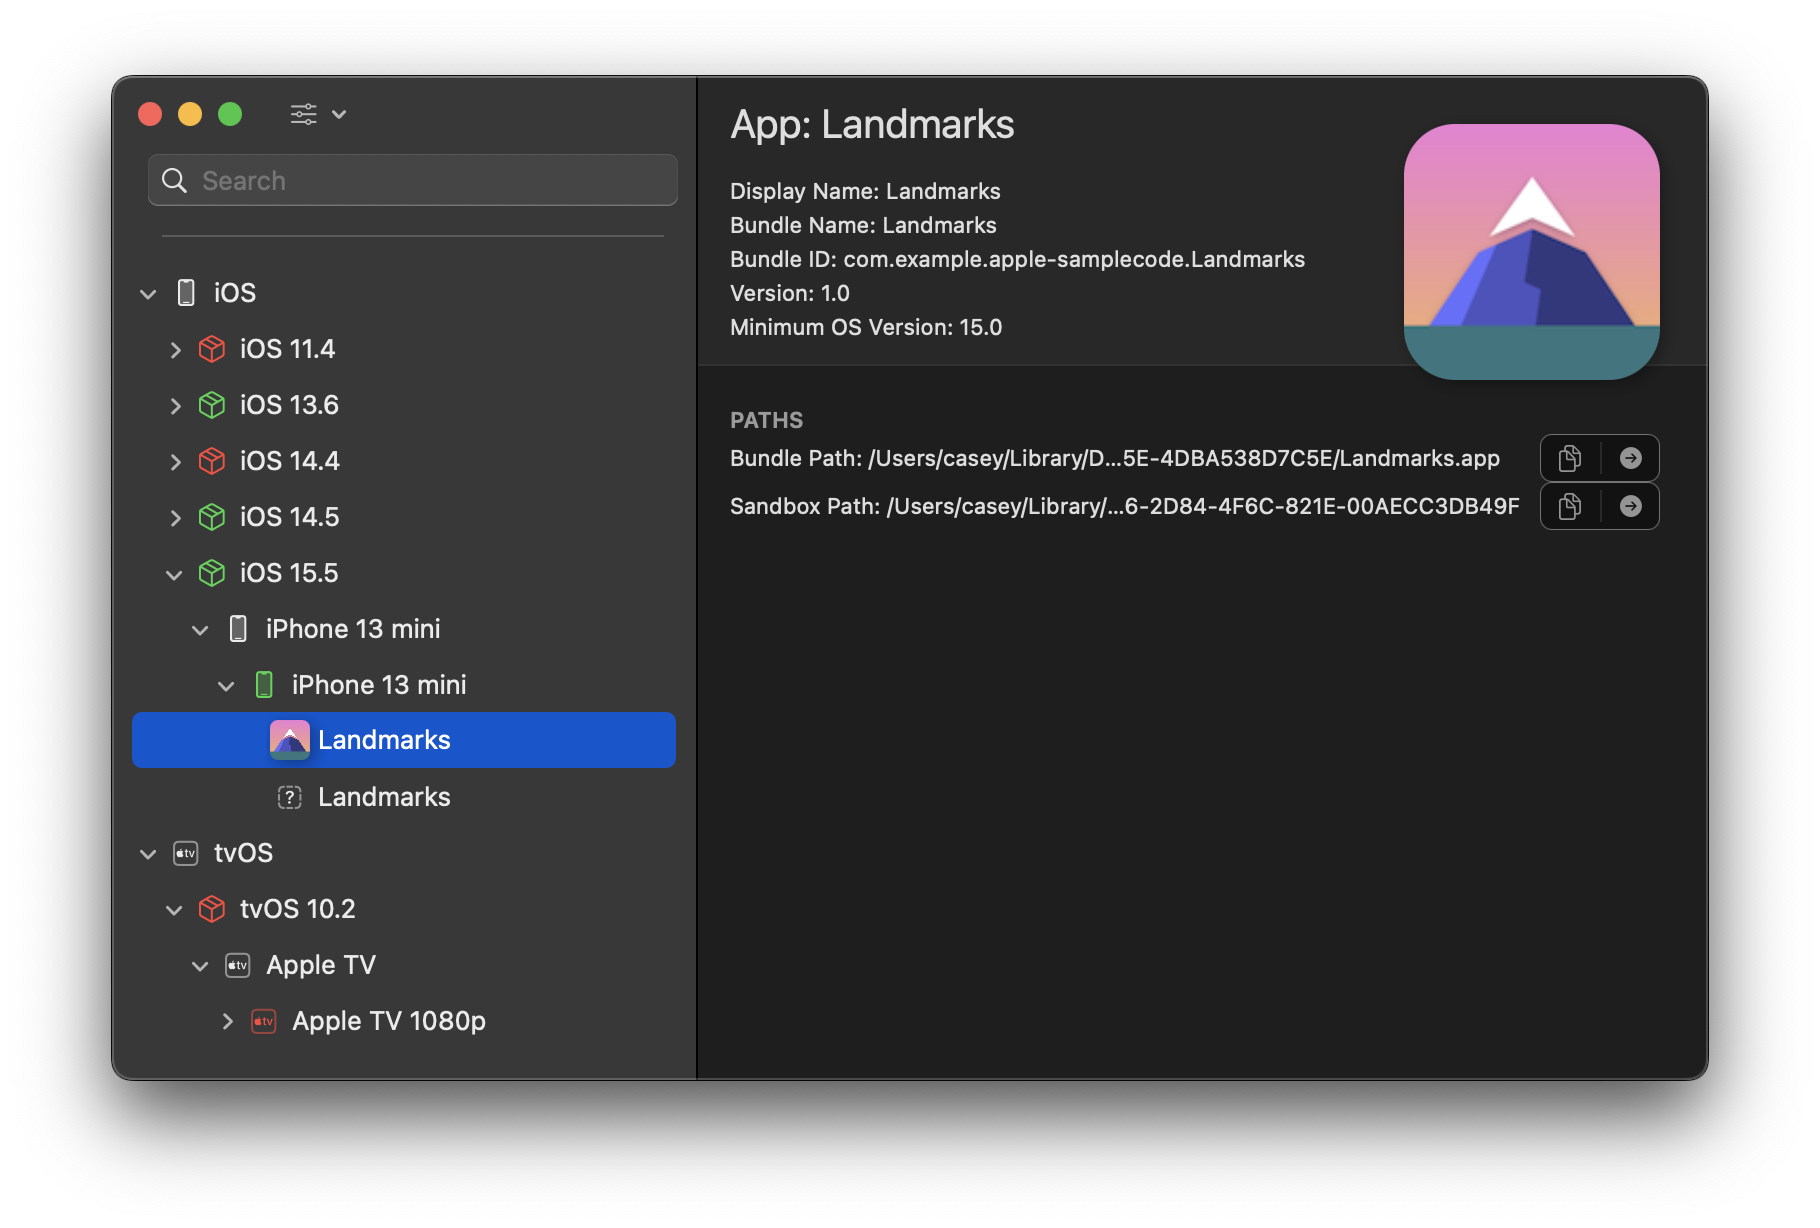
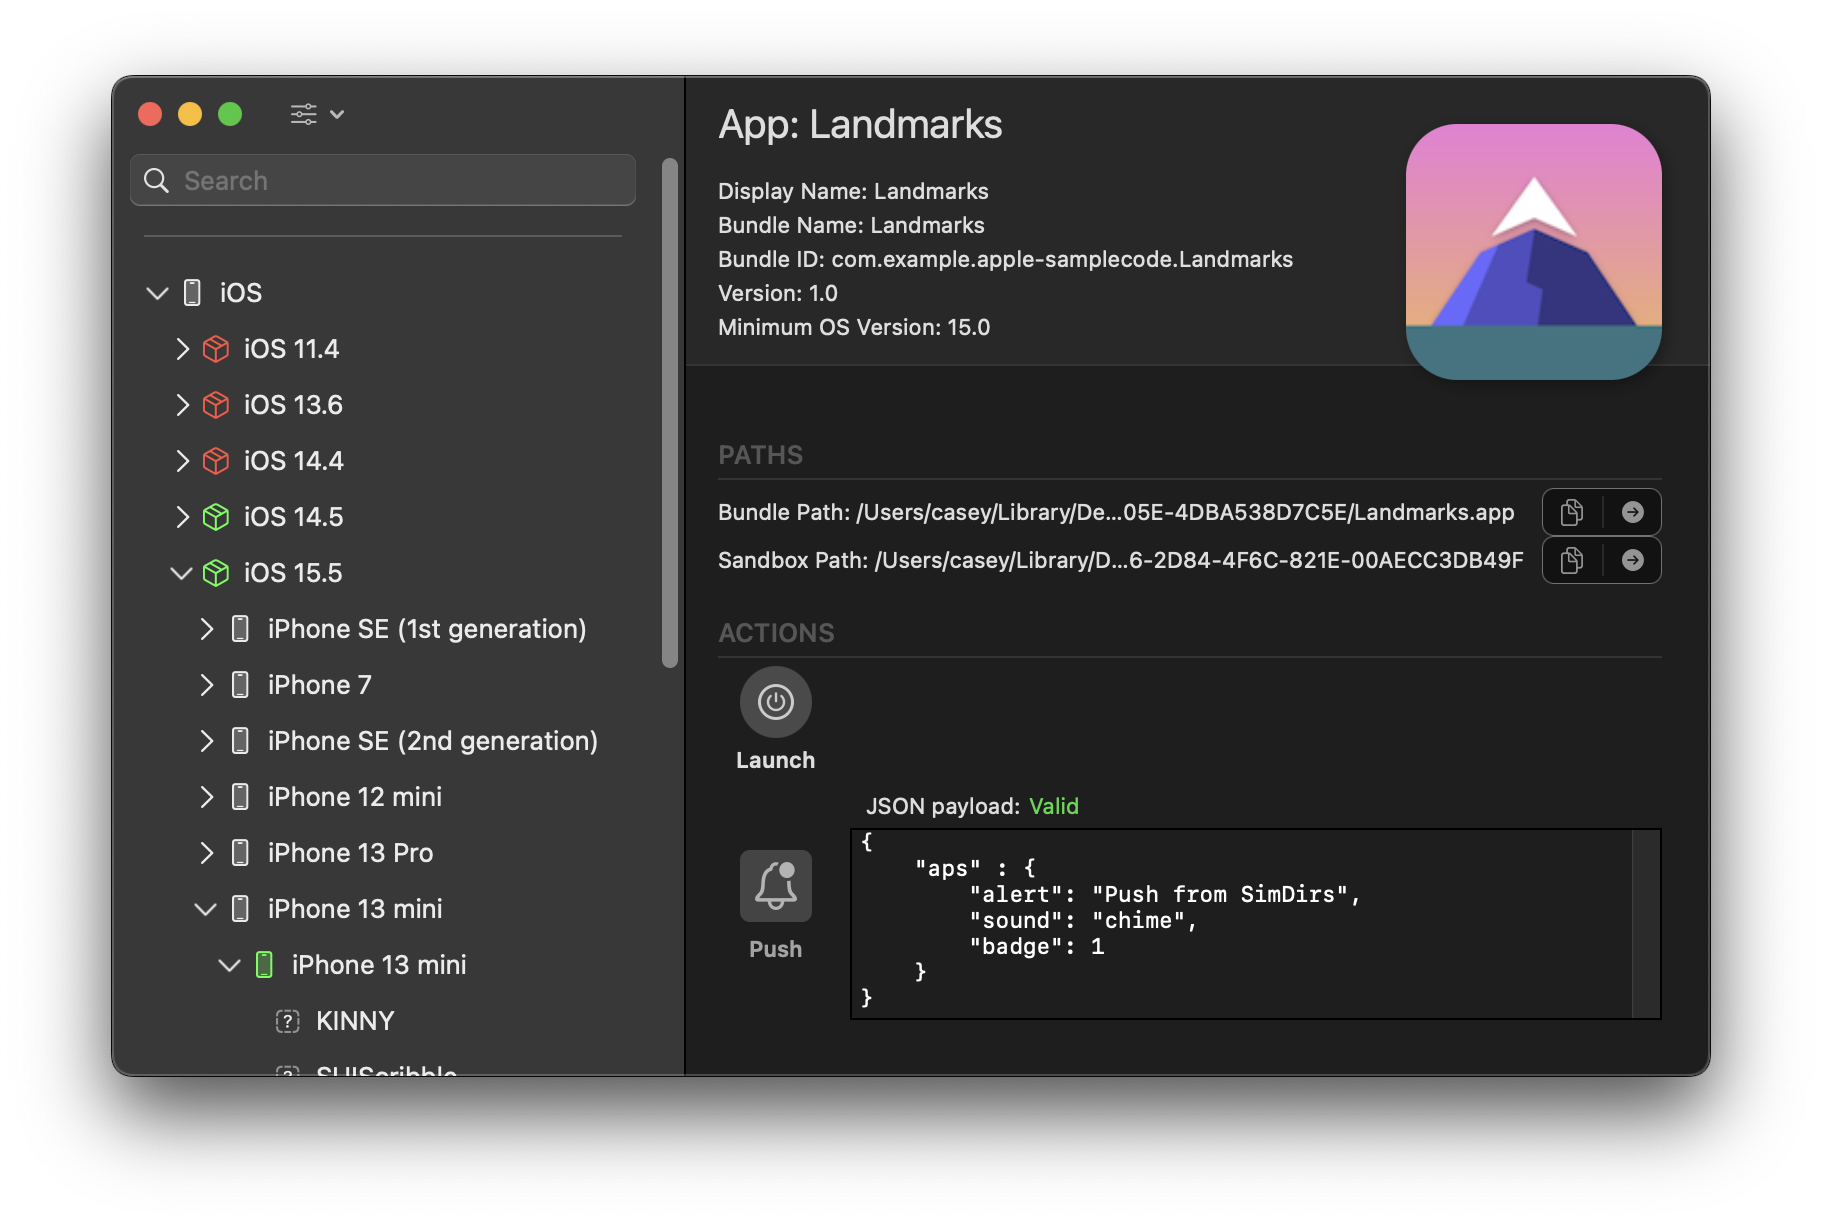
Added support for sending push notifications.

diff --git a/SimDirs/Views/Model Views/AppContent.swift b/SimDirs/Views/Model Views/AppContent.swift
@@ -23,8 +23,21 @@ extension SimApp.State: ToggleDescriptor {
 }
 
 struct AppContent: View {
+    // https://developer.apple.com/library/archive/documentation/NetworkingInternet/Conceptual/RemoteNotificationsPG/PayloadKeyReference.html
+    
     @ObservedObject var app     : SimApp
-
+    @State var validJSON        = true
+    @State var jsonErrMsg       = ""
+    @State var jsonText         : String = """
+        {
+            "aps" : {
+                "alert": "Push from SimDirs",
+                "sound": "chime",
+                "badge": 1
+            }
+        }
+        """
+    
     var body: some View {
         VStack(alignment: .leading, spacing: 0.0) {
             ContentHeader("Paths")
@@ -41,14 +54,91 @@ struct AppContent: View {
             .lineLimit(1)
 
             ContentHeader("Actions")
-            HStack(spacing: 16) {
-                DescriptiveToggle(app.state, isOn: $app.isLaunched, subtitled: false)
+            VStack(alignment: .leading) {
+                HStack(spacing: 16) {
+                    DescriptiveToggle(app.state, isOn: $app.isLaunched, subtitled: false)
+                        .frame(width: 58)
+                }
+                .environment(\.isEnabled, app.device?.isBooted == true)
+                
+                HStack {
+                    Button(action: pushJSON) {
+                        Text("Push")
+                            .fontWeight(.semibold)
+                            .font(.system(size: 11))
+                    }
+                    .buttonStyle(.systemIcon("bell.badge"))
+                    .disabled(!validJSON)
                     .frame(width: 58)
+                    
+                    VStack(alignment: .leading, spacing: 4) {
+                        HStack(spacing: 4) {
+                            Text("JSON payload:")
+                                .font(.subheadline)
+                                .padding(.leading, 8)
+                            Text(jsonErrMsg.isEmpty ? "Valid" : jsonErrMsg)
+                                .font(.subheadline)
+                                .foregroundColor(jsonErrMsg.isEmpty ? .green : .red)
+                        }
+                        TextEditor(text: $jsonText)
+                            .font(.system(size: 11, design: .monospaced))
+                            .frame(height: 96)
+                            .border(.black)
+                    }
+                }
             }
-            .environment(\.isEnabled, app.device?.isBooted == true)
         }
-        .onAppear {
-            app.discoverState()
+        .onAppear { app.discoverState() }
+        .onChange(of: jsonText, perform: validateJSON)
+    }
+    
+    func pushJSON() {
+        guard let jsonData = jsonText.data(using: .utf8), let device = app.device else { return }
+
+        do {
+            if var payload = try JSONSerialization.jsonObject(with: jsonData) as? [String : Any] {
+                let jsonData    : Data
+                
+                payload["Simulator Target Bundle"] = app.bundleID
+                jsonData = try JSONSerialization.data(withJSONObject: payload)
+                
+                device.sendPushNotification(payload: jsonData)
+            }
+        }
+        catch { // <thinking face>
+            print("Error attempting to create push payload: \(error)")
+        }
+    }
+    
+    func validateJSON(_ json: String) {
+        guard let jsonData = json.data(using: .utf8) else { return }
+        
+        do {
+            let obj = try JSONSerialization.jsonObject(with: jsonData)
+            
+            if obj as? [String : Any] == nil {
+                jsonErrMsg = "Root expected to be dictionary"
+                validJSON = false
+            }
+            else {
+                jsonErrMsg = ""
+                validJSON = true
+            }
+        }
+        catch {
+            let nsError = (error as NSError)
+
+            jsonErrMsg = nsError.userInfo[NSDebugDescriptionErrorKey] as? String ?? nsError.localizedDescription
+            validJSON = false
+        }
+    }
+}
+
+extension NSTextView {
+    // gross (see: https://stackoverflow.com/questions/66721935/swiftui-how-to-disable-the-smart-quotes-in-texteditor)
+    open override var frame: CGRect {
+        didSet {
+            self.isAutomaticQuoteSubstitutionEnabled = false
         }
     }
 }

diff --git a/SimDirs/Model/SimCtl.swift b/SimDirs/Model/SimCtl.swift
@@ -126,6 +126,14 @@ struct SimCtl {
         try runAsync(args: ["ui", device.udid, "increase_contrast", increaseContrast.rawValue])
     }
     
+    func sendPushNotification(_ device: SimDevice, payload: Data) throws {
+        let temporaryDirectoryURL = URL(fileURLWithPath: NSTemporaryDirectory(), isDirectory: true)
+        let temporaryFileURL = temporaryDirectoryURL.appendingPathComponent(ProcessInfo().globallyUniqueString)
+
+        try payload.write(to: temporaryFileURL, options: .atomic)
+        try runAsync(args: ["push", device.udid, temporaryFileURL.path])
+    }
+    
     func saveScreen(_ device: SimDevice, url: URL) throws {
         try runAsync(args: ["io", device.udid, "screenshot", url.path])
     }

diff --git a/SimDirs/Model/SimDevice.swift b/SimDirs/Model/SimDevice.swift
@@ -214,6 +214,14 @@ class SimDevice: ObservableObject, Decodable {
             isRecording = false
         }
     }
+    
+    func sendPushNotification(payload: Data) {
+        do {
+            try SimCtl().sendPushNotification(self, payload: payload)
+        } catch {
+            print("Failed to send push notification: \(error)")
+        }
+    }
 }
 
 extension SimDevice {

diff --git a/SimDirs/Views/Styles/SystemIconButtonStyle.swift b/SimDirs/Views/Styles/SystemIconButtonStyle.swift
@@ -46,7 +46,7 @@ struct SystemIconButtonStyle: ButtonStyle {
     }
     
     func foregroundColor(pressed: Bool) -> Color {
-        return .primary.opacity(pressed ? 1.0 : (isEnabled ? 0.7 : 0.6))
+        return .primary.opacity(pressed ? 1.0 : (isEnabled ? 0.7 : 0.4))
     }
     
     func backgroundColor(pressed: Bool) -> Color {
